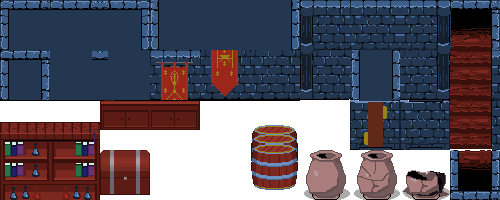
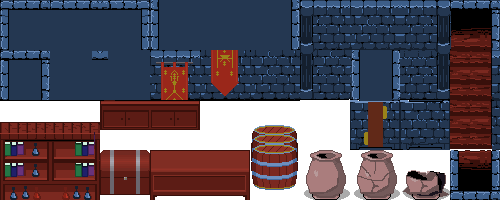
Added a desk and additional rooms.

Changed region(s): [[0.3, 0.75, 0.51, 1.0]]

diff --git a/js/Rooms.js b/js/Rooms.js
@@ -61,7 +61,7 @@ rooms = {
         11,47,47,21,69,23,56,21,69,23,56,21,69,23,23,23,
         11,48,48,0,0,0,0,0,0,0,0,0,0,0,0,0,
         11,40,0,0,0,0,0,0,0,0,0,0,0,0,0,0,
-        11,41,0,0,0,0,0,0,0,0,0,0,0,0,0,9,
+        11,41,0,0,0,0,0,0,0,0,0,0,0,0,0,6,
         11,42,0,0,0,0,0,0,0,0,0,0,0,0,0,9,
         11,0,0,0,0,0,0,0,0,0,0,0,0,0,0,9,
         17,7,7,7,7,7,7,7,7,7,7,7,7,7,7,18
@@ -521,7 +521,7 @@ rooms = {
             71,71,71,71,71,71,71,71,71,71,71,71,71,71,71,69,
              8,71,71,71,71,71,71,71,71,71,71,71,71,71,71,71,
             11,71,71,71,71,71,71,71,71,71,71,71,71,71,71,71,
-            11,71,71,71,71,71,71,71,71,71,71,71,71,71,71, 9,
+            11,71,71,71,71,71,71,71,71,71,71,71,71,71,71, 6,
             17, 7, 7, 7, 7, 7, 7, 7, 7, 7, 7, 7, 7, 7, 7,18
         ],
         ceiling:
@@ -668,8 +668,8 @@ rooms = {
         floor:
         [
             10,10,10,10,10,10,11,71,71, 9,10,10,10,10,10,10,
-            11,13,13,65,13,57,13,71,71,13,57,65,66,67,68, 9,
-            11,23,23,69,23,58,23,71,71,23,58,69,69,69,69, 9,
+            11,13,66,55,68,57,65,71,71,65,57,66,55,67,13, 9,
+            11,23,69,56,69,58,69,71,71,69,58,69,56,69,23, 9,
             11,71,71,71,71,71,71,71,71,71,71,71,71,71,71, 9,
             11,71,71,71,71,71,71,71,71,71,71,71,71,71,71, 9,
             11,71,71,71,71,71,71,71,71,71,71,71,71,71,71, 9,
@@ -706,8 +706,8 @@ rooms = {
         floor:
         [
             10,10,10,10,10,10,11,71,71, 9,10,10,10,10,10,10,
-            11,13,13,65,13,57,13,71,71,13,57,65,66,67,68, 9,
-            11,23,23,69,23,58,23,71,71,23,58,69,69,69,69, 9,
+            11,13,13,65,59,66,13,71,71,13,68,59,65,13,13, 9,
+            11,23,23,69,60,69,23,71,71,23,69,60,69,23,23, 9,
             11,71,71,71,71,71,71,71,71,71,71,71,71,71,71, 9,
             11,71,71,71,71,71,71,71,71,71,71,71,71,71,71, 9,
             11,71,71,71,71,71,71,71,71,71,71,71,71,71,71, 9,
@@ -735,7 +735,7 @@ rooms = {
             1,1,1,1,1,1,1,1,1,1,1,1,1,1,1,1,
             1,1,1,1,1,1,1,1,1,1,1,1,1,1,1,1,
             1,1,1,1,1,1,1,1,1,1,1,1,1,1,1,1,
-            1,1,1,1,1,1,1,1,1,1,1,1,1,1,1,1,
+            1,1,1,1,1,1,1,1,1,71,71,71,71,71,1,1,
             1,1,1,1,1,1,1,1,1,1,1,1,1,1,1,1,
             1,1,1,1,1,1,1,1,1,1,1,1,1,1,1,1,
             1,1,1,1,1,1,1,1,1,1,1,1,1,1,1,1,
@@ -743,15 +743,15 @@ rooms = {
         ],
         floor:
         [
-            10,10,10,10,10,10,11,71,71, 9,10,10,10,10,10,10,
-            11,13,13,65,13,57,13,71,71,13,57,65,66,67,68, 9,
-            11,23,23,69,23,58,23,71,71,23,58,69,69,69,69, 9,
-            11,71,71,71,71,71,71,71,71,71,71,71,71,71,71, 9,
-            11,71,71,71,71,71,71,71,71,71,71,71,71,71,71, 9,
-            11,71,71,71,71,71,71,71,71,71,71,71,71,71,71, 9,
-            11,71,71,71,71,71,71,71,71,71,71,71,71,71,71, 9,
-            11,71,71,71,71,71,71,71,71,71,71,71,71,71,71, 9,
-            17, 7, 7, 7, 7, 7, 8,71,71, 6, 7, 7, 7, 7, 7,18
+            10,10,10,10,10,10,11,71,71, 9,10, 10, 10,10,10,10,
+            11,13,13,65,63,65,13,71,71,13,67, 61, 65,13,13, 9,
+            11,23,23,69,64,69,23,71,71,23,69, 62, 69,23,23, 9,
+            11,71,71,71,71,71,71,71,71,71,71, 71, 71,71,71, 9,
+            11,71,71,71,71,71,71,71,71,71,71,150,151,71,71, 9,
+            11,71,71,71,71,71,71,71,71,71,71, 71, 71,71,71, 9,
+            11,71,71,71,71,71,71,71,71,71,71, 71, 71,71,71, 9,
+            11,71,71,71,71,71,71,71,71,71,71, 71, 71,71,71, 9,
+            17, 7, 7, 7, 7, 7, 8,71,71, 6, 7,  7,  7, 7, 7,18
         ],
         ceiling:
         [
@@ -782,9 +782,9 @@ rooms = {
         floor:
         [
             10,10,10,10,10,10,11,71,71, 9,10,10,10,10,10,10,
-            11,13,13,65,13,57,13,71,71,13,57,65,66,67,68, 9,
-            11,23,23,69,23,58,23,71,71,23,58,69,69,69,69, 9,
-            11,71,71,71,71,71,71,71,71,71,71,71,71,71,71, 9,
+            11,13,13,65,55,65,13,71,71,13,65,57,65,13,13, 9,
+            11,23,23,69,56,69,23,71,71,23,69,58,69,23,23, 9,
+            11,71,71,71,71,71,71,71,71,71,71,71,71,71,88, 9,
             13,71,71,71,71,71,71,71,71,71,71,71,71,71,71, 9,
             23,71,71,71,71,71,71,71,71,71,71,71,71,71,71, 9,
             71,71,71,71,71,71,71,71,71,71,71,71,71,71,71, 9,

diff --git a/js/ImageLoading.js b/js/ImageLoading.js
@@ -117,7 +117,9 @@ function loadImages() {
     {tileType:TILE_CABINET_1_ML, imgX: 0, imgY: 150, theFile:"dungeonWalls.png"},
     {tileType:TILE_CABINET_1_MR, imgX: 50, imgY: 150, theFile:"dungeonWalls.png"},
     {tileType:TILE_TREASURE_CHEST, imgX: 100, imgY: 150, theFile:"dungeonWalls.png"},
-    {tileType:TILE_TREASURE_CHEST_OPEN, imgX: 150, imgY: 150, theFile:"dungeonWalls.png"},
+    //{tileType:TILE_TREASURE_CHEST_OPEN, imgX: 150, imgY: 150, theFile:"dungeonWalls.png"},
+    {tileType:TILE_DESK_LEFT_SIDE, imgX: 150, imgY: 150, theFile:"dungeonWalls.png"},
+    {tileType:TILE_DESK_RIGHT_SIDE, imgX: 200, imgY: 150, theFile:"dungeonWalls.png"},
     {tileType:TILE_WHISKEY_BARREL_BOTTOM, imgX: 250, imgY: 150, theFile:"dungeonWalls.png"},
     {tileType:TILE_POTTERY_1, imgX: 300, imgY: 150, theFile:"dungeonWalls.png"},
     {tileType:TILE_POTTERY_2, imgX: 350, imgY: 150, theFile:"dungeonWalls.png"},

diff --git a/js/World.js b/js/World.js
@@ -217,7 +217,7 @@ function drawLayer(layer, isCeiling = false) {
         }
 
         if( tileTypeHasTileFloor(tileTypeHere) ) {
-          canvasContext.drawImage(tilePics[TILE_FLOOR_TILE].img,0,0, 50, 50, tileLeftEdgeX, tileTopEdgeY, 50, 50);
+          canvasContext.drawImage(tilePics[TILE_FLOOR_TILE].img,50,0, 50, 50, tileLeftEdgeX, tileTopEdgeY, 50, 50);
         }
 
         if (animatedTiles.includes(tileTypeHere)) {

diff --git a/js/tileData.js b/js/tileData.js
@@ -141,6 +141,9 @@ TILES = {
     TILE_WALL_BROKENBRICKS_13_BOTTOM: 135,
     TILE_WALL_BROKENBRICKS_14_TOP: 136,
 
+    TILE_DESK_LEFT_SIDE: 150,
+    TILE_DESK_RIGHT_SIDE: 151,
+
     TILE_WALL_COLUMN_LEFT: 200,
     TILE_WALL_COLUMN_RIGHT: 201
   };
@@ -175,6 +178,8 @@ TILES = {
   TILE_POTTERY_1,
   TILE_POTTERY_2,
   TILE_POTTERY_3,
+  TILE_DESK_LEFT_SIDE,
+  TILE_DESK_RIGHT_SIDE
   ]
   
   walkableTiles = [
